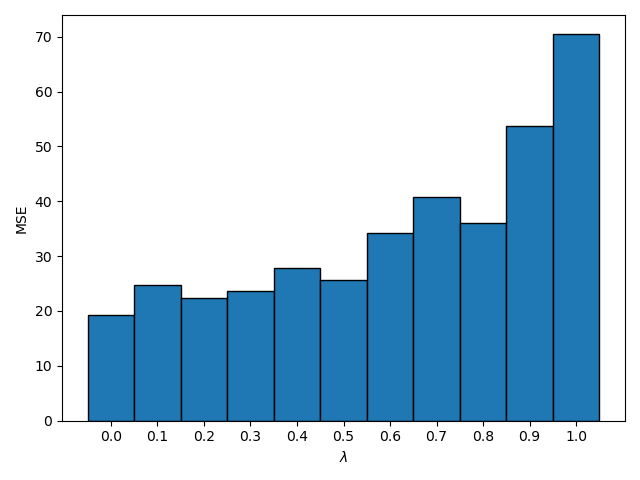
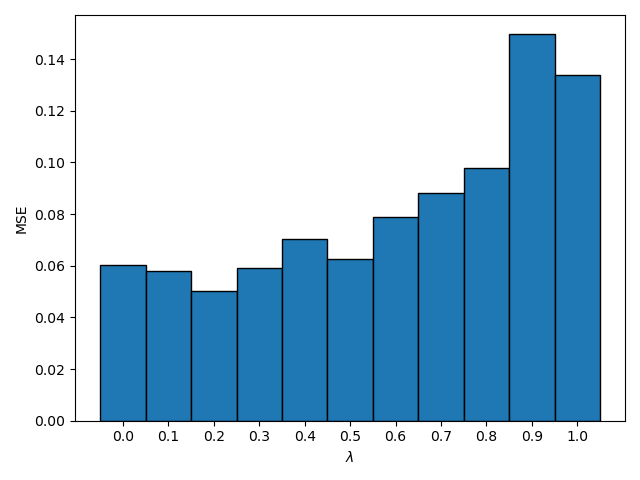
fix: sum -> mean for MSE

diff --git a/Easy21/Assignment_2_and_3.py b/Easy21/Assignment_2_and_3.py
@@ -32,10 +32,10 @@ if __name__ == "__main__":
         td_control = TDControl(N0, lam)
 
         if lam in lambdas_to_record:
-            learning_curve = [np.sum((mc_Q - td_control.Q) ** 2)]
+            learning_curve = [np.mean((mc_Q - td_control.Q) ** 2)]
             for _ in range(N_td_steps):
                 td_control.run_episode()
-                learning_curve.append(np.sum((mc_Q - td_control.Q) ** 2))
+                learning_curve.append(np.mean((mc_Q - td_control.Q) ** 2))
 
             learning_curves.append(learning_curve)
 
@@ -44,7 +44,7 @@ if __name__ == "__main__":
         td_Q = td_control.Q
 
         # Compute mean squared error
-        mse.append(np.sum((mc_Q - td_Q) ** 2))
+        mse.append(np.mean((mc_Q - td_Q) ** 2))
 
     # MSE pr. lambda
     fig = plt.figure()
